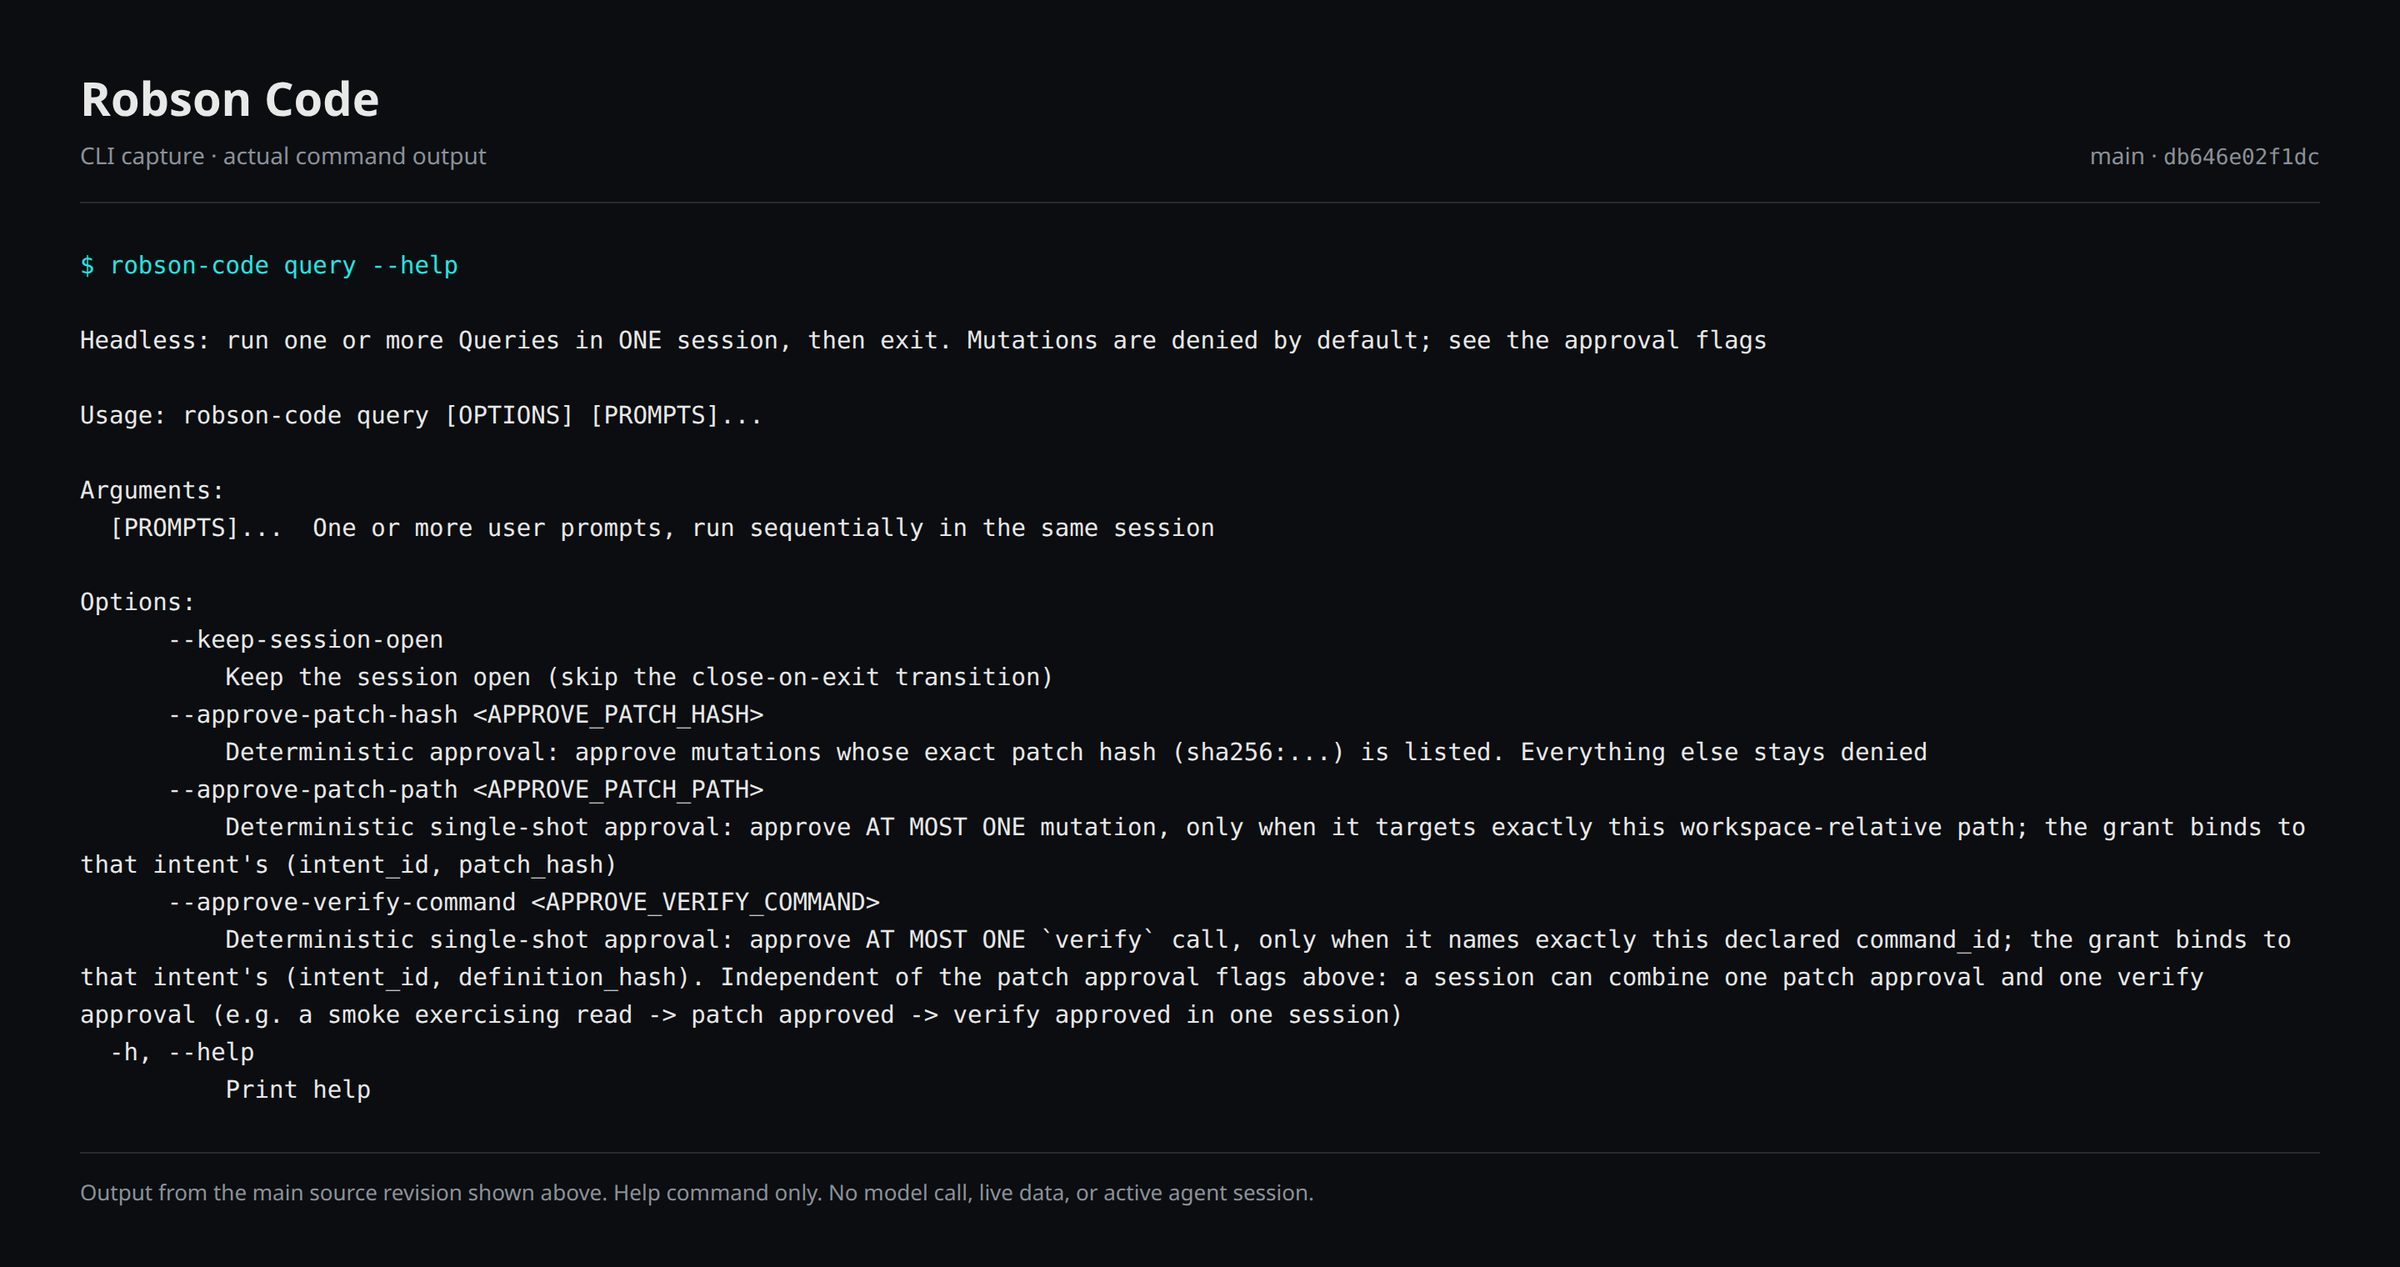
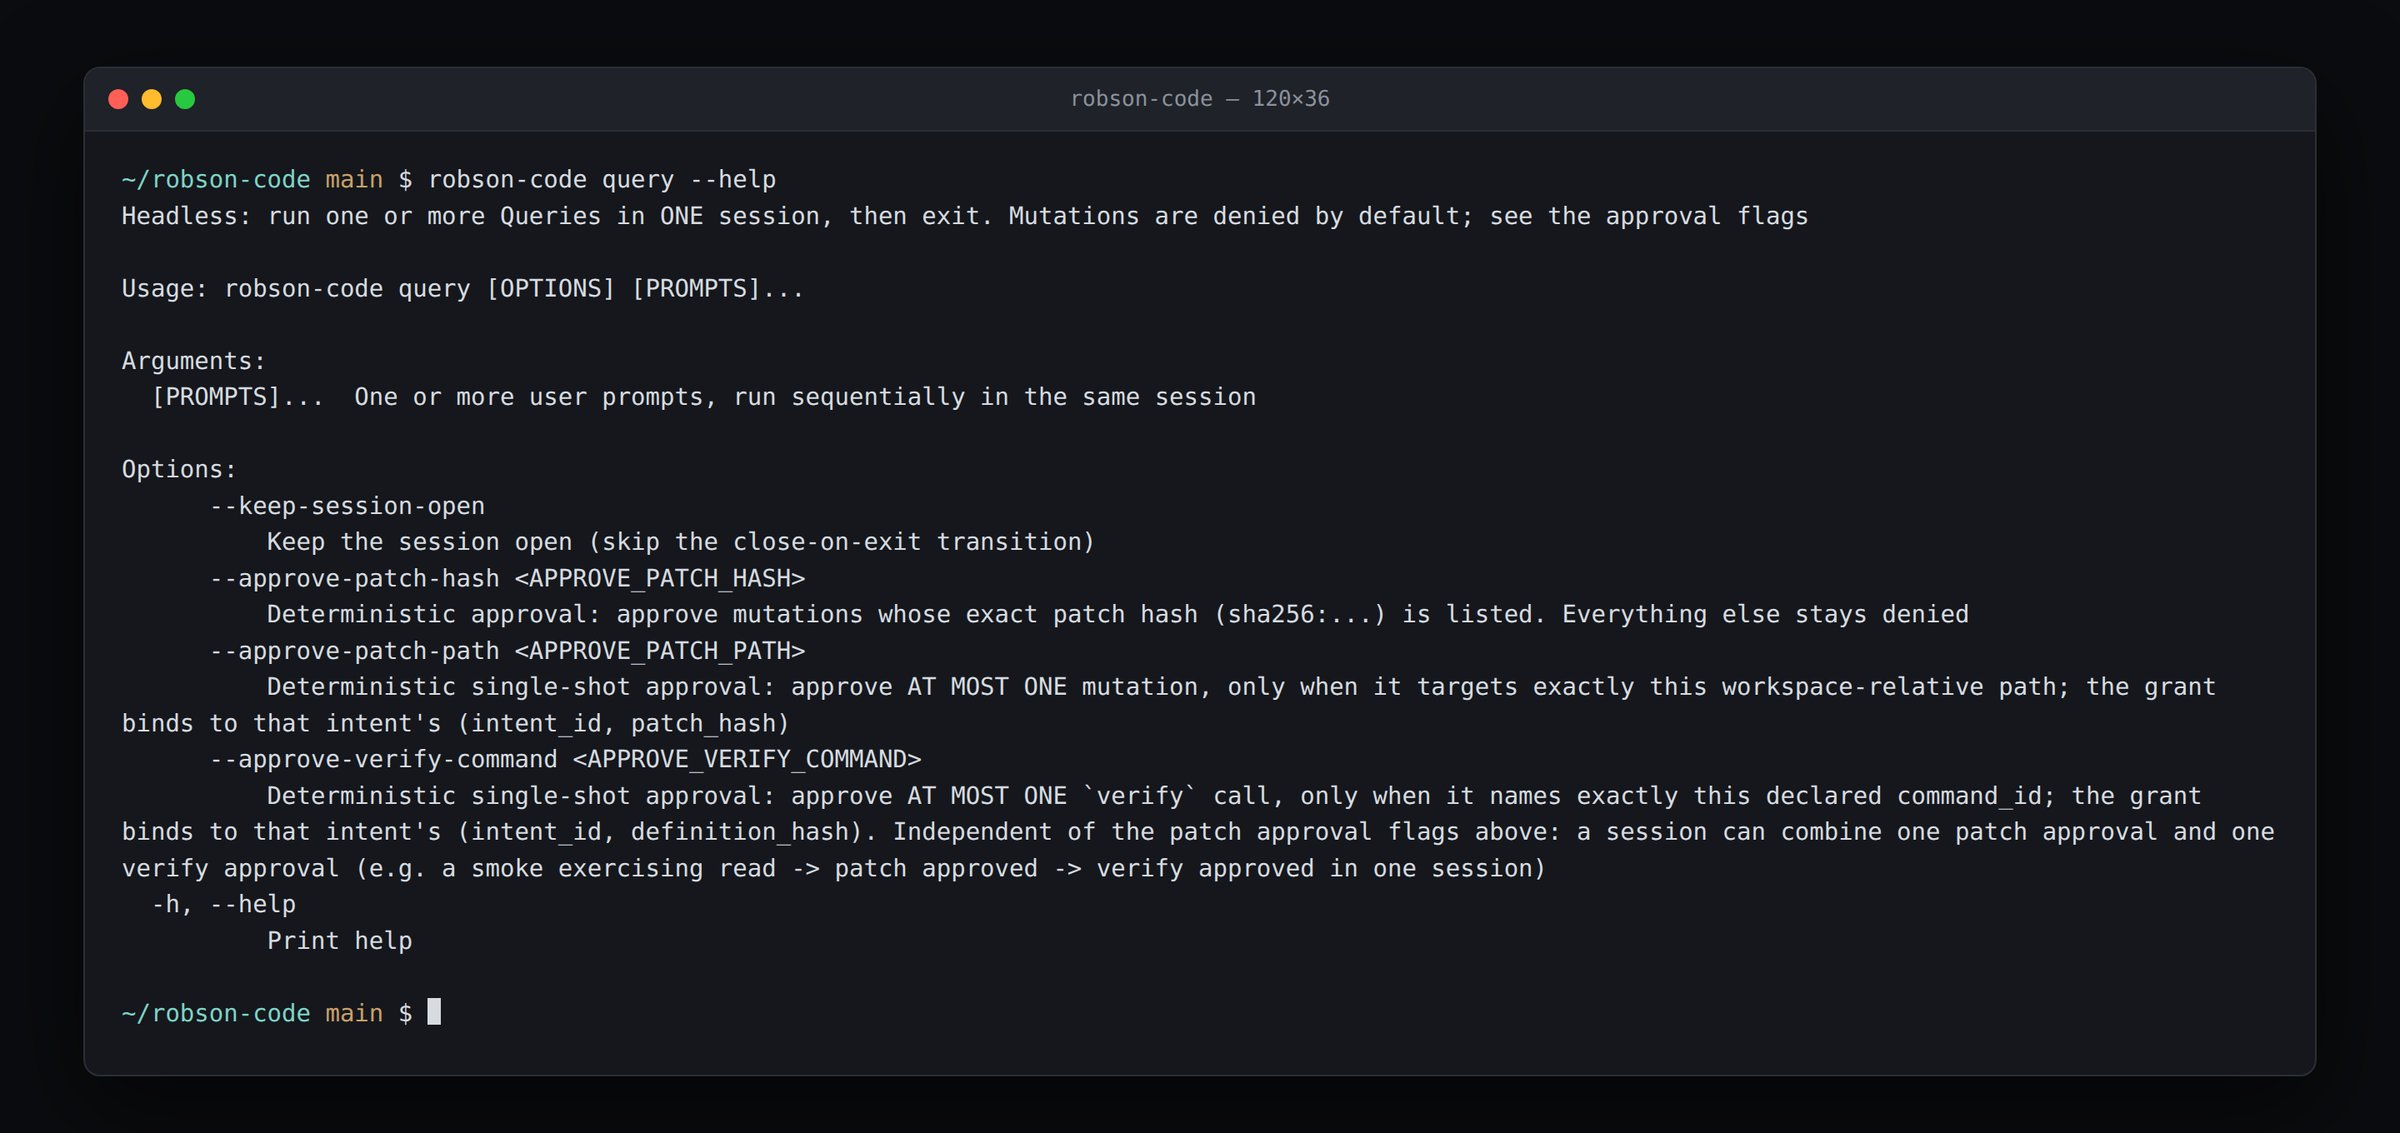
evidence: use the operator's production Robson screenshot and a terminal frame for Robson Code
Robson: replace the local stub-fed dashboard with the operator's own
screenshot of the production console (1862x898, image sha-0cef339), with a
caption stating balances are a snapshot, not performance evidence.

Robson Code: render the same actual `query --help` stdout inside a static
terminal-window frame instead of the document-style viewer (2400x1133).

Total evidence payload 953 KiB.

diff --git a/src/lib/content/product-evidence.ts b/src/lib/content/product-evidence.ts
@@ -47,8 +47,8 @@ export const productEvidence: ProductEvidence[] = [
       'https://github.com/ldamasio/robson/blob/0cef339b22f5c458fd73511238f75fabc527f899/robson-domain/src/policy.rs#L225-L237',
     capture: {
       src: '/products/evidence/robson-main-0cef339.jpg',
-      width: 2400,
-      height: 1500,
+      width: 1862,
+      height: 898,
       repository: 'ldamasio/robson',
       commit: '0cef339b22f5c458fd73511238f75fabc527f899',
       alt: {
@@ -58,8 +58,8 @@ export const productEvidence: ProductEvidence[] = [
       },
       caption: {
         'pt-BR':
-          'Frontend real do Robson na mesma revisão que roda em produção, executado localmente contra uma API simulada somente de leitura. Dados sintéticos, sem negociação.',
-        en: 'The actual Robson frontend at the revision running in production, run locally against a read-only stub API. Synthetic data, no trading.'
+          'Console do Robson em produção, capturado pelo operador na própria conta. Saldos e preços são um instantâneo, não evidência de desempenho.',
+        en: 'The Robson console in production, captured by the operator on their own account. Balances and prices are a snapshot, not performance evidence.'
       }
     }
   },
@@ -180,7 +180,7 @@ export const productEvidence: ProductEvidence[] = [
     capture: {
       src: '/products/evidence/robson-code-main-db646e0.jpg',
       width: 2400,
-      height: 1267,
+      height: 1133,
       repository: 'rbxrobotica/robson-code',
       commit: 'db646e02f1dcef0eb9dcac3afa743fa59d62017c',
       alt: {
@@ -190,8 +190,8 @@ export const productEvidence: ProductEvidence[] = [
       },
       caption: {
         'pt-BR':
-          'Saída real de robson-code query --help, apresentada em um visualizador de texto. Não representa uma sessão ativa de IA.',
-        en: 'Actual robson-code query --help output displayed in a text viewer. It does not represent an active AI session.'
+          'Saída real de robson-code query --help, apresentada em uma janela de terminal. Não representa uma sessão ativa de IA.',
+        en: 'Actual robson-code query --help output shown in a terminal window. It does not represent an active AI session.'
       }
     }
   },

diff --git a/docs/products-portfolio.md b/docs/products-portfolio.md
@@ -117,11 +117,11 @@ customer data, internal addresses or deployment configuration.
 
 | Product     | Code source and main revision                                                                                              | Capture source and scope                                                                                                                                                                                                                                   |
 | ----------- | -------------------------------------------------------------------------------------------------------------------------- | ---------------------------------------------------------------------------------------------------------------------------------------------------------------------------------------------------------------------------------------------------------- |
-| Robson      | `ldamasio/robson`, `0cef339b22f5c458fd73511238f75fabc527f899`, `robson-domain/src/policy.rs:225–237`                       | Same revision, which is also the `robson-frontend-v2` image running in production (`sha-0cef339`). The real SvelteKit dashboard served by `vite dev` against a loopback read-only stub API (GET only, every mutation answers 405, host resolver blocked for non-loopback hosts) with synthetic status, slots, positions and events. Captured headless at 1440×900 CSS px, device scale factor 2, then scaled to 2400×1500. The capture carries a synthetic-data banner; prices and balances are not performance evidence. Production itself sits behind Google sign-in and was not captured. |
+| Robson      | `ldamasio/robson`, `0cef339b22f5c458fd73511238f75fabc527f899`, `robson-domain/src/policy.rs:225–237`                       | Screenshot taken by the operator in the production console (`robson.rbx.ia.br`, image `sha-0cef339`, the same revision as the code excerpt) on their own account, 1862×898. It shows a live slot and real wallet figures at that moment; balances and prices are a snapshot, not performance evidence. No other account or customer data is shown. |
 | Strategos   | `rbxrobotica/strategos-ui`, `ca6f6a7d157e7138a774bc35ff6c29e549097f59`, `src/types/agent.ts:78–90`                         | Capture from `fcf14bd38eeb665c8f3abdffa06e39ca40274363`, the `strategos-ui` image deployed in production (`sha-fcf14bd`, six commits behind main). Real cockpit run with `vite dev` in mock mode (no `NEXT_PUBLIC_API_URL`) against a loopback stub of the session BFF that returns one synthetic identity. Captured at 1440×900 CSS px, device scale factor 2, scaled to 2400×1500. Production requires OIDC sign-in and was not captured; no private plan or account is shown. |
 | Verentir    | `rbxrobotica/verentir`, `a8dc4cb9354530c0f1963500cd2bd1589b74ddc8`, `src/domain.rs:199–210`                                | Same revision, the actual `verentir` binary built from main and run locally (in-memory store, no `DATABASE_URL`) against a local stub of the LLM gateway that returns scripted judge JSON. Twelve demonstration conversations were evaluated through the real evaluate → attribute → store → scorecard path. Captured headless at 1200×640 CSS px, device scale factor 2. Scores are illustrative, not measured production outcomes; Verentir has no production deployment. |
 | Thalamus    | `rbxrobotica/thalamus-core`, `fd19dc4107a479ce9072c41a6f7de4805991d03c`, `crates/thalamus-core/src/policy.rs:7–18`         | Same revision's console run with `vite dev`, disconnected, with default demo values; no request was submitted. The console at main fails to render (see below); the capture applies the upstream fix proposed to `thalamus-core` and is disclosed in the caption. Captured at 1440×900 CSS px, device scale factor 2, scaled to 2400×1500. Thalamus has no public ingress by design (cluster-internal pilot), so there is no production console to capture. |
-| Robson Code | `rbxrobotica/robson-code`, `db646e02f1dcef0eb9dcac3afa743fa59d62017c`, `crates/robson-code-protocol/src/commands.rs:38–51` | Actual stdout of `robson-code query --help`, built with `cargo build --release` from the same revision and shown in a neutral static text viewer rendered at device scale factor 2 (2400×1267). This is a CLI capture, not a separate product UI or an active AI session; the CLI has no production frontend. |
+| Robson Code | `rbxrobotica/robson-code`, `db646e02f1dcef0eb9dcac3afa743fa59d62017c`, `crates/robson-code-protocol/src/commands.rs:38–51` | Actual stdout of `robson-code query --help`, built with `cargo build --release` from the same revision and rendered inside a static terminal-window frame at device scale factor 2 (2400×1133). This is a CLI capture, not a separate product UI or an active AI session; the CLI has no production frontend. |
 | Satwake     | `rbxrobotica/rbx-market-briefing`, `e05a6a077d8dfcfc8dded9a5a9b2101afb8cf4f1`, `src/pipeline/publisher.ts:130–140`         | Direct headless capture of the public production landing `briefingbtc.merovelis.com`, which serves `rbxrobotica/rbx-landing-briefing-btc` at `8a023186aab81204dd7707fbb40ec5f8b4e80466` (`sha-8a02318`, 31 commits behind main, still under the Briefing Diário BTC name). Captured at 1440×900 CSS px, device scale factor 2, scaled to 2400×1500. No payment, login or member content was accessed. |
 
 Thalamus console limitation: at main `fd19dc4` the console renders blank on
